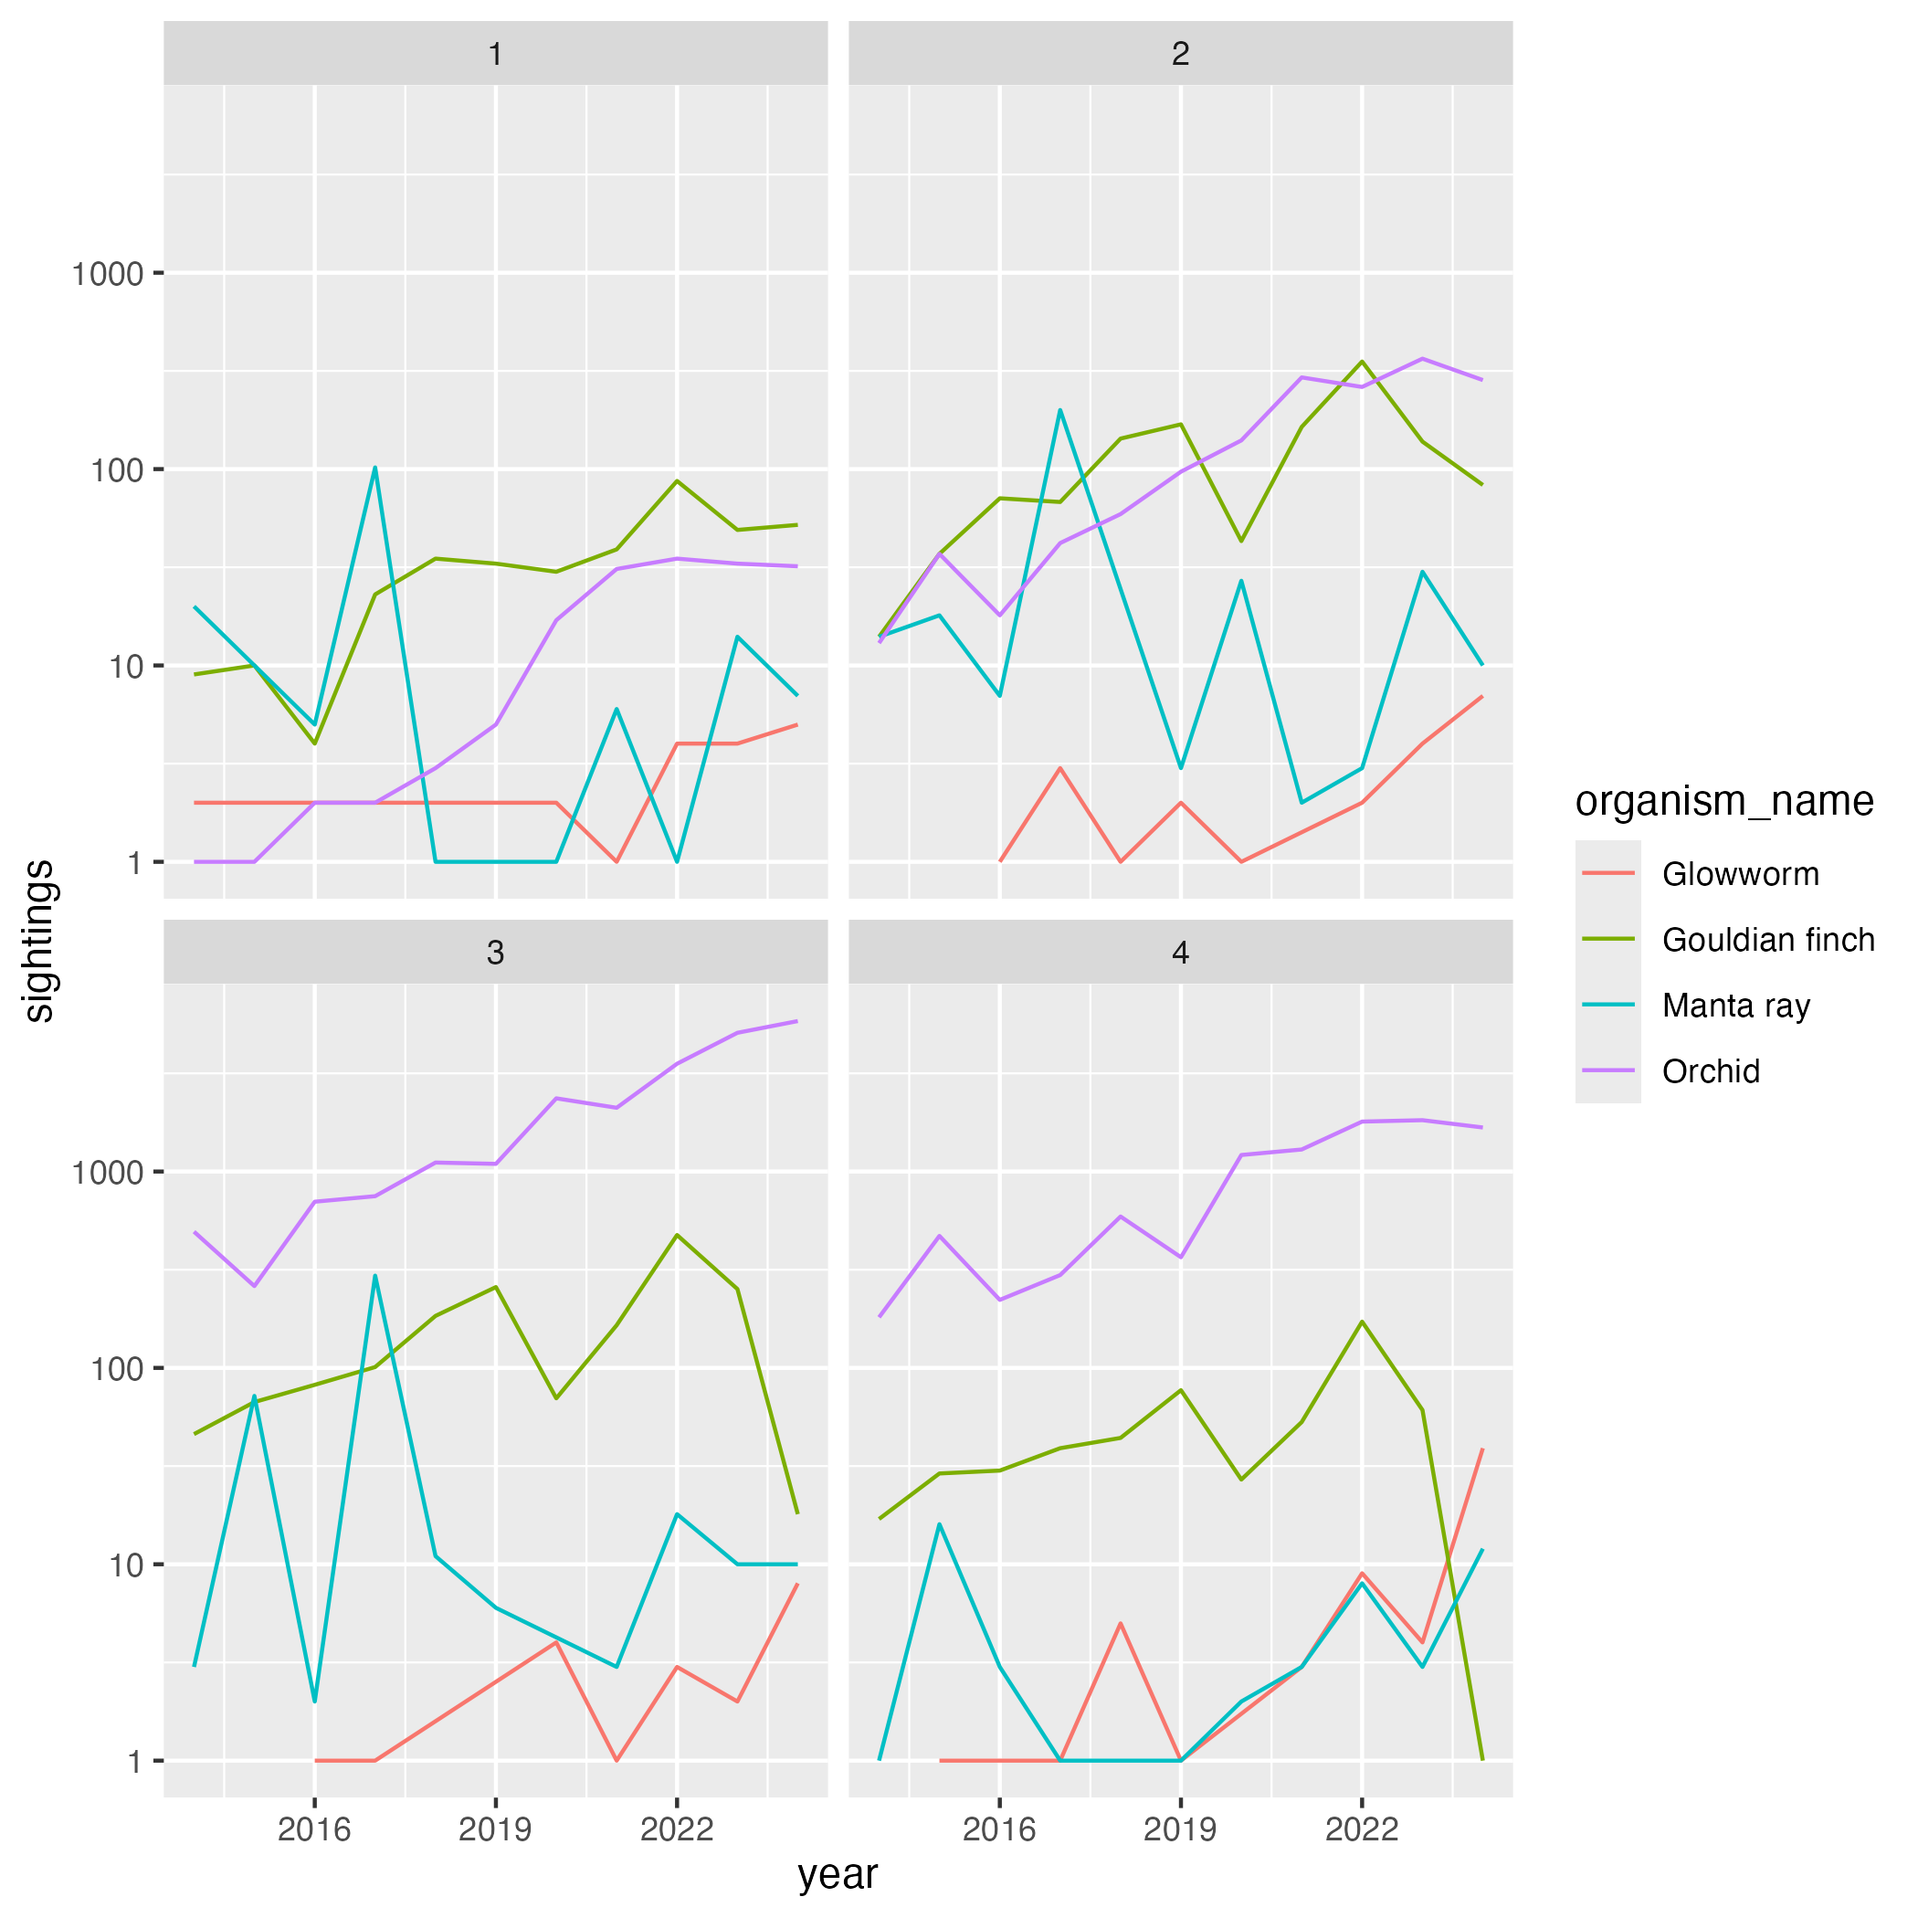
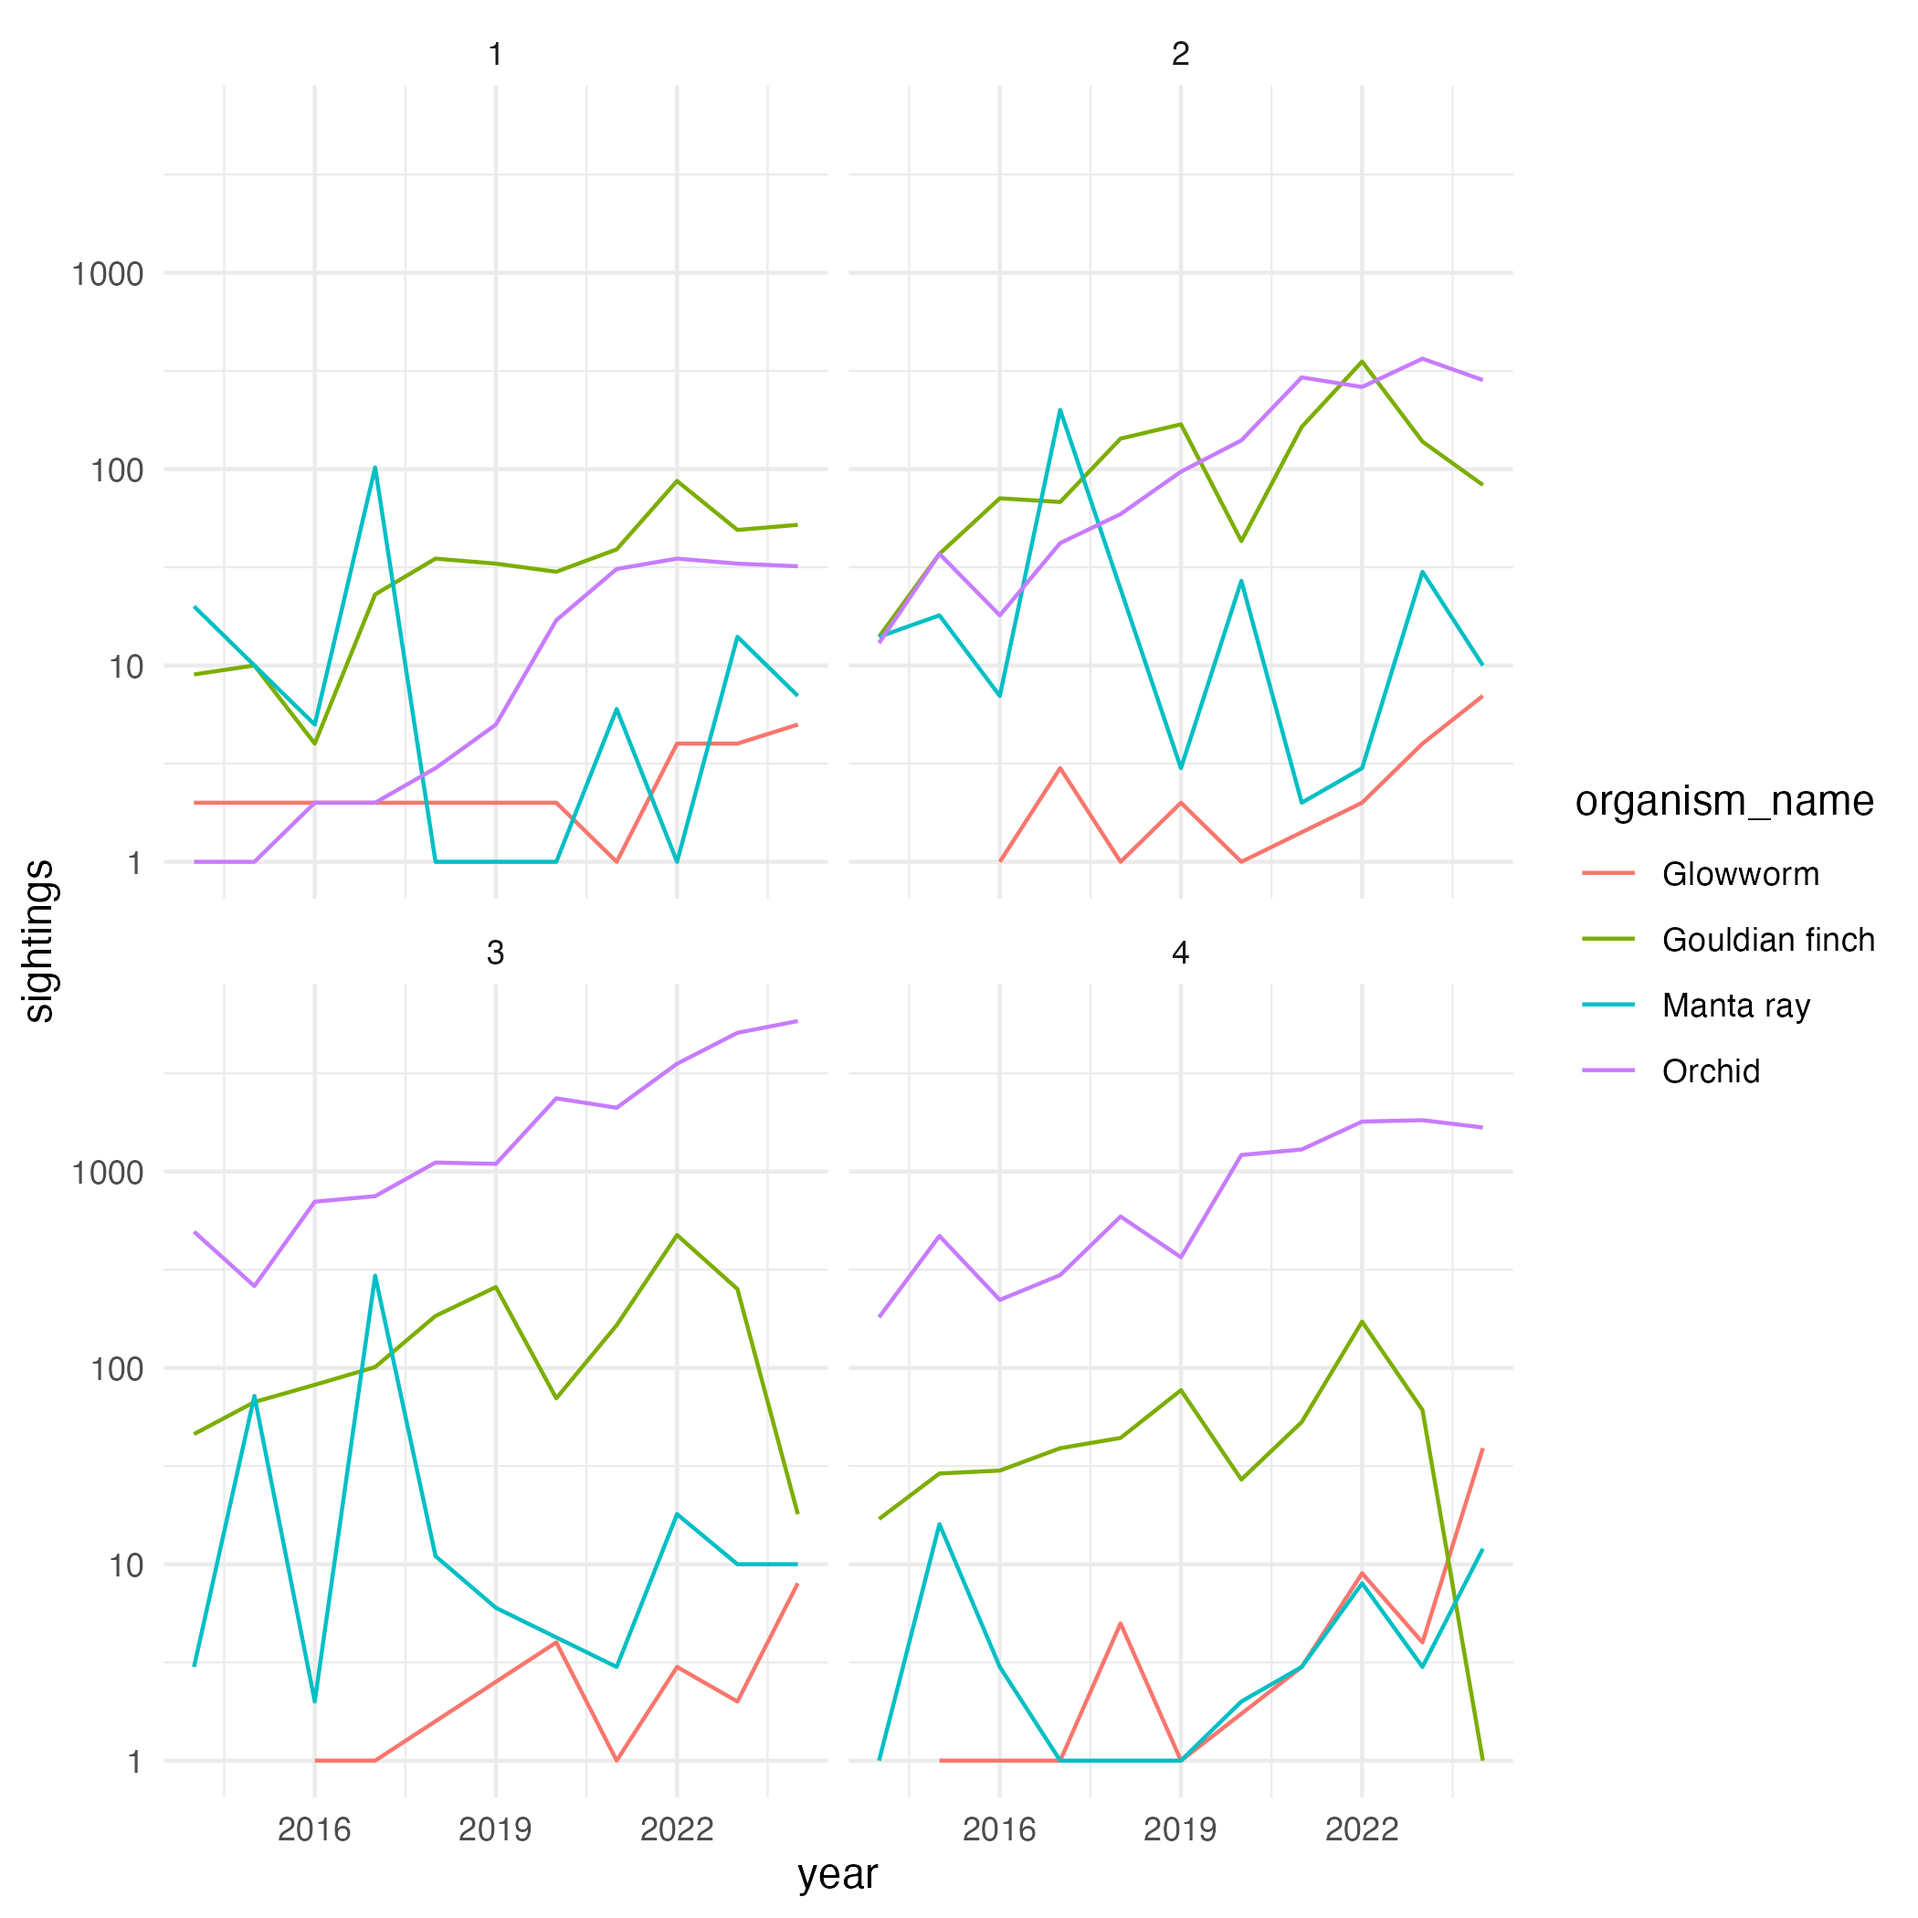
some changes

Changed region(s): [[0.0619, 0.4643, 0.8048, 0.5262], [0.0619, 0.0, 0.8048, 0.0619]]

diff --git a/tex/vals.tex b/tex/vals.tex
@@ -1,2 +1,3 @@
 \newcommand{\avgglowwormsightingsEXAMPLE}{4.13}
 \newcommand{\avgorchidsightingsEXAMPLE}{796.64}
+\newcommand{\commonOrgEXAMPLE}{Gouldian finch}
